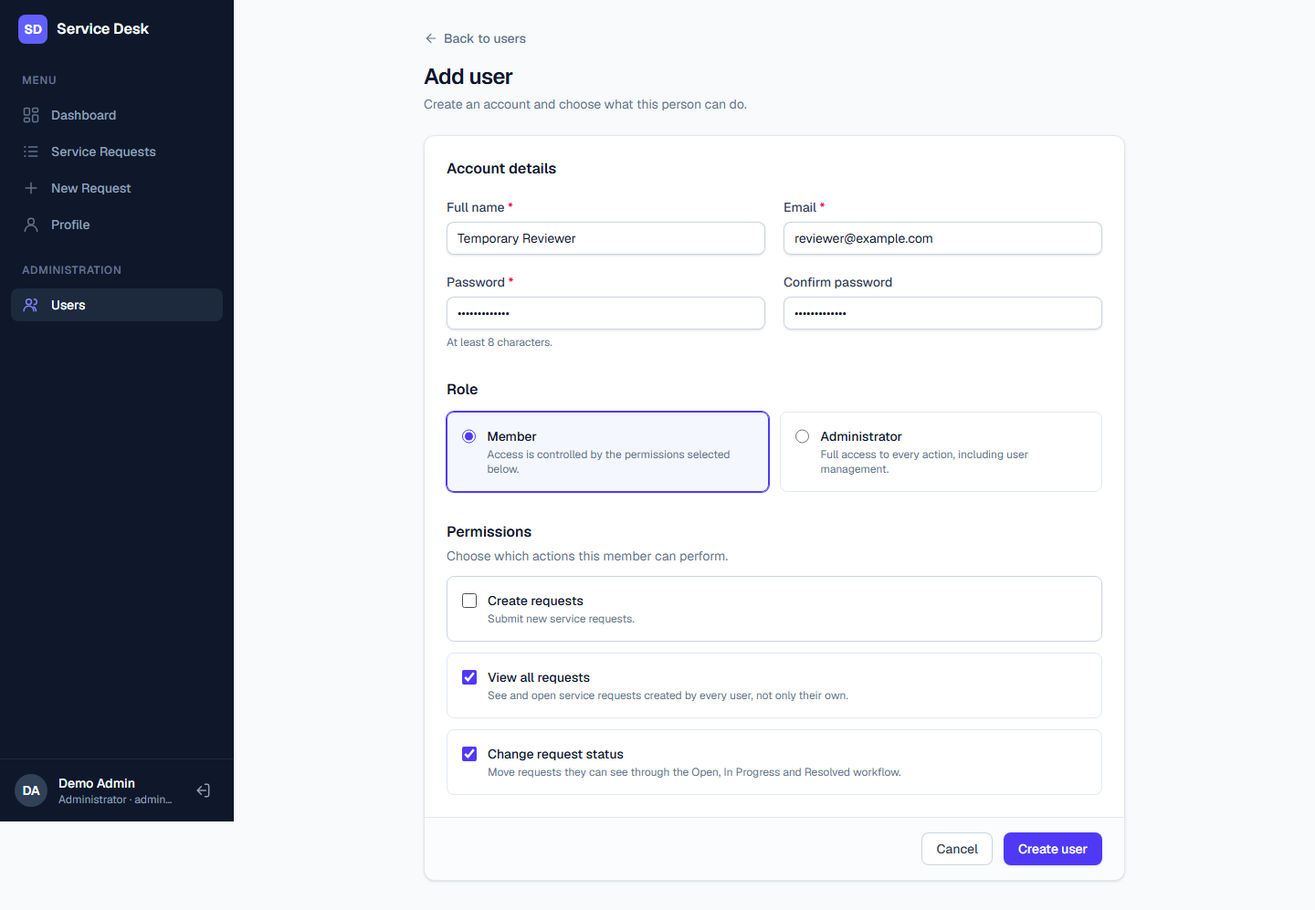
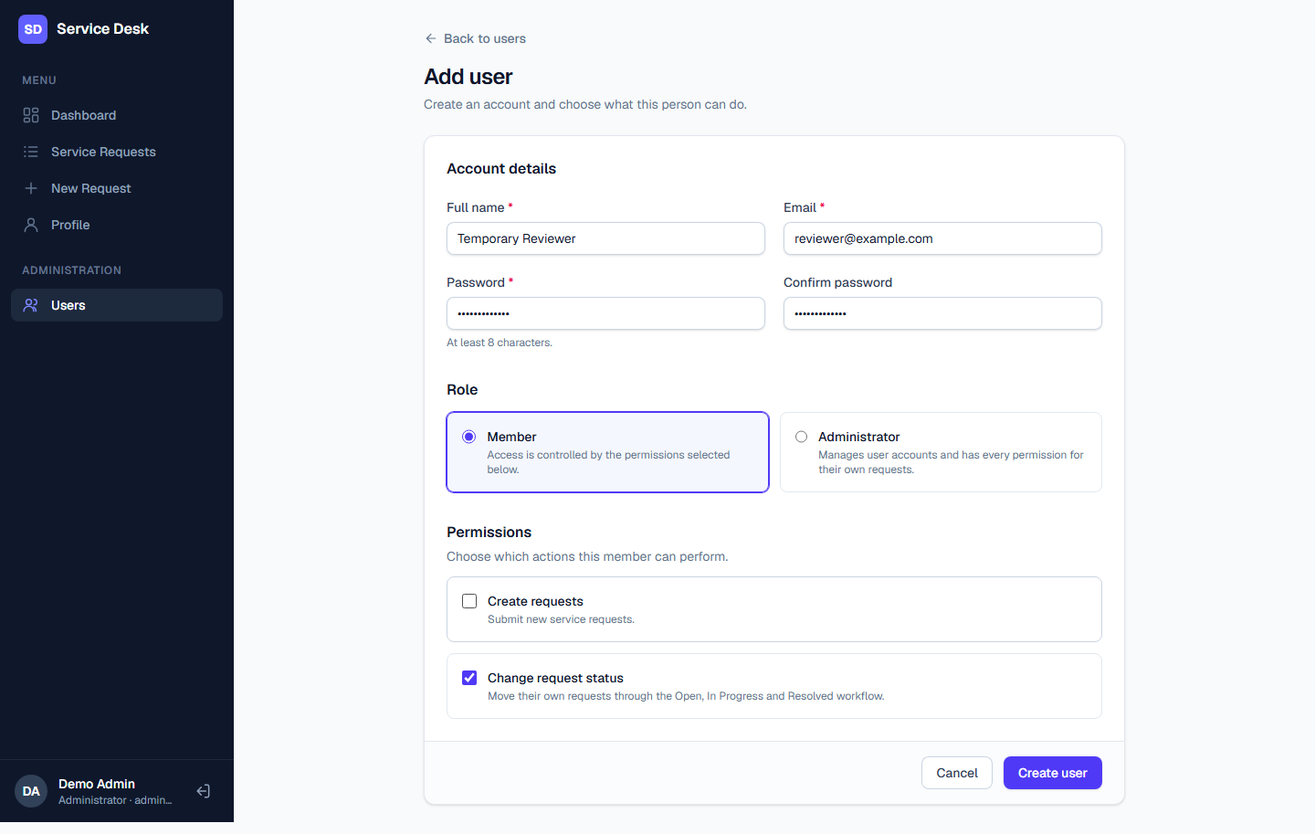
readme update

diff --git a/README.md b/README.md
@@ -1,35 +1,38 @@
 # Service Request Management
 
-A service desk application for logging, tracking and resolving service requests.
+A compact, secure service request tracker. Employees sign in, raise service requests, move them through a controlled workflow and see a full audit trail of every status change.
 
-- **Backend:** Laravel 13 REST API with Laravel Sanctum token authentication
+- **Backend:** Laravel 13 REST API with Laravel Sanctum API tokens
 - **Frontend:** Next.js 16 (App Router, React 19, TypeScript, Tailwind CSS 4) in [`frontend/`](frontend/)
 - **Database:** SQLite by default, MySQL or PostgreSQL also supported
 
 ## Features
 
-- Login, logout and current user profile with two seeded demo accounts
-- Create service requests, view details, search by title, filter by priority and status, server-side pagination
+- Login, logout and current user (`/me`) with two seeded demo accounts
+- Create service requests, view details, search by title, combined priority and status filters, server-side pagination
 - Status workflow `OPEN → IN_PROGRESS → RESOLVED` with an optional remark on each change
-- Audit history: every successful status change creates exactly one history record
-- Optimistic concurrency control: every request has a version, and an outdated version can never overwrite newer data
-- Access control with roles and permissions: administrators manage everything, members get individual permissions
+- Audit history: every successful status change creates exactly one history record, available through its own endpoint
+- Optimistic concurrency control: every request has a version, and a stale `expected_version` can never overwrite newer data
+- Strict ownership: every user, including administrators, can only read and change their own requests and status history
 - User management for administrators: create, edit and delete users and assign roles and permissions
 
 ## Project structure
+
+The repository root is the Laravel backend. The Next.js frontend is in `frontend/`.
 
 ```
 app/
   Actions/ChangeServiceRequestStatus.php   status change in a transaction with version check
   Enums/                                   priority, status and permission enums, workflow rules
-  Exceptions/                              invalid transition (422) and stale version (409)
-  Http/Controllers/Api/                    auth, service request and user endpoints
+  Exceptions/                              invalid transition and stale version (both 409)
+  Http/Controllers/Api/                    auth, request and user endpoints
   Http/Requests/                           validation
   Http/Resources/                          JSON responses
   Models/                                  User, ServiceRequest, ServiceRequestStatusHistory
-  Policies/                                service request and user authorization
+  Policies/                                request ownership and user management rules
 database/
   factories/  migrations/  seeders/
+routes/api.php                             API routes
 tests/Feature/                             automated Laravel tests
 frontend/                                  Next.js application
 docs/screenshots/                          screenshots used below
@@ -40,6 +43,8 @@ docs/screenshots/                          screenshots used below
 - PHP 8.3 or newer with the `pdo_sqlite` extension (or `pdo_mysql` / `pdo_pgsql`)
 - Composer 2
 - Node.js 20.9 or newer and npm
+
+No paid services are needed.
 
 ## Installation
 
@@ -106,15 +111,25 @@ Open `http://localhost:3000`.
 
 For a production build use `npm run build` followed by `npm run start`.
 
+### Environment variables
+
+Both `.env.example` files contain no real secrets. The values that matter for this project are:
+
+| Variable              | Where              | Purpose                                              |
+|-----------------------|--------------------|------------------------------------------------------|
+| `APP_KEY`             | `.env`             | Generated by `php artisan key:generate`              |
+| `DB_*`                | `.env`             | Database connection                                  |
+| `SANCTUM_EXPIRATION`  | `.env`             | API token lifetime in minutes, default `480` (8 hours) |
+| `NEXT_PUBLIC_API_URL` | `frontend/.env.local` | Base URL of the Laravel API                       |
+
 ### Demo accounts
 
-| Account       | Email               | Password   | Role          | Access                                           |
-|---------------|---------------------|------------|---------------|--------------------------------------------------|
-| Demo Admin    | `admin@example.com` | `password` | Administrator | Everything, including user management            |
-| Demo User     | `user@example.com`  | `password` | Member        | Create requests, change status of own requests   |
-| Support Agent | `agent@example.com` | `password` | Member        | View all requests and change status, no create   |
+| Account    | Email               | Password   | Role          | Access                                    |
+|------------|---------------------|------------|---------------|-------------------------------------------|
+| Demo Admin | `admin@example.com` | `password` | Administrator | Own requests, plus user management        |
+| Demo User  | `user@example.com`  | `password` | Member        | Own requests: create and change status    |
 
-The seeders create 20 requests each for Demo Admin and Demo User. Each request moves through the workflow with realistic status history, remarks and versions.
+The seeders create 20 requests for each account. Each request moves through the workflow with realistic status history, remarks and versions, and every status change is made by the request's owner. Signing in as one account never shows the other account's requests.
 
 To reset the demo data:
 
@@ -122,65 +137,151 @@ To reset the demo data:
 php artisan migrate:fresh --seed
 ```
 
+## Authentication
+
+**Choice: Laravel Sanctum API tokens.** The Next.js frontend runs on its own origin (`http://localhost:3000`) and the API runs on another (`http://localhost:8000` or a WAMP sub-folder). Bearer tokens work across these origins without cookie domain, same-site or CSRF configuration, and the same API can be used from tools such as Postman. Sanctum is first-party Laravel, so there is no third-party JWT library to configure.
+
+- `POST /api/auth/login` checks the credentials and returns a plain-text token. Only a SHA-256 hash of the token is stored in the database. Login is rate limited to 6 attempts per minute.
+- `GET /api/auth/me` returns the signed-in user, or `401` without a valid token.
+- `POST /api/auth/logout` deletes the current token on the server, so it stops working immediately.
+- Tokens expire after `SANCTUM_EXPIRATION` minutes (8 hours by default). Expired tokens are rejected with `401` and removed by a daily `sanctum:prune-expired` schedule.
+- Passwords are hashed with bcrypt through the `hashed` cast on the `User` model.
+
+**Token storage trade-off.** The frontend keeps the token in `localStorage` and sends it as an `Authorization: Bearer` header. This is simple and works across origins, but any script running on the page could read the token, so it depends on the app being free of XSS. The risk is reduced because React escapes all rendered output, no raw HTML is injected, tokens expire after 8 hours and logout revokes the token on the server. The alternative, Sanctum's cookie-based SPA mode with `HttpOnly` cookies, keeps the token out of JavaScript but needs both apps on the same top-level domain plus CSRF and same-site configuration. That trade-off was not worth it for a local two-origin setup.
+
+## Data model
+
+| Table                      | Columns                                                                                          |
+|----------------------------|--------------------------------------------------------------------------------------------------|
+| `users`                    | Laravel users, plus `is_admin`, `permissions` (JSON) and `deleted_at` for soft deletes           |
+| `service_requests`         | `id`, `created_by` (FK users), `title` (3–100), `description` (10–500), `priority` (`LOW`/`MEDIUM`/`HIGH`), `status` (`OPEN`/`IN_PROGRESS`/`RESOLVED`, default `OPEN`), `version` (default 1), timestamps |
+| `request_status_histories` | `id`, `service_request_id` (FK), `actor_user_id` (FK users), `from_status` (null for the initial record), `to_status`, `version`, `remark` (nullable), `created_at` |
+
+Foreign keys enforce the relationships. Indexes cover `(created_by, created_at)` for "my requests, newest first", `status`, `priority`, `title` for search, and `(service_request_id, created_at)` for the history.
+
+Two additions to the minimum schema:
+
+- `request_status_histories.version` records which version each change produced, which makes the audit trail easy to check against the request.
+- An initial history record (`from_status` is `null`) is written when a request is created, so the trail always starts at `OPEN`.
+
 ## API
 
 All endpoints return JSON. Send `Accept: application/json`, and `Authorization: Bearer <token>` for protected endpoints.
 
-| Method  | Endpoint                              | Description                                                         |
-|---------|---------------------------------------|---------------------------------------------------------------------|
-| `POST`  | `/api/login`                          | Returns a token and the user. Rate limited to 6 attempts per minute |
-| `POST`  | `/api/logout`                         | Revokes the current token                                           |
-| `GET`   | `/api/me`                             | Current user profile                                                |
-| `GET`   | `/api/service-requests`               | List with `search`, `priority`, `status`, `per_page`, `page`        |
-| `POST`  | `/api/service-requests`               | Create a request (`title`, `description`, `priority`)               |
-| `GET`   | `/api/service-requests/{id}`          | Request details with version and status history                     |
-| `PATCH` | `/api/service-requests/{id}/status`   | Change status (`status`, `version`, optional `remark`)              |
-| `GET`   | `/api/permissions`                    | Available permissions with labels and defaults                      |
-| `GET`   | `/api/users`                          | List users with `search`, `role`, `per_page`, `page` (admin only)   |
-| `POST`  | `/api/users`                          | Create a user (`name`, `email`, `password`, `password_confirmation`, `role`, `permissions`) |
-| `GET`   | `/api/users/{id}`                     | User details (admin only)                                           |
-| `PUT`   | `/api/users/{id}`                     | Update a user. `password` is optional (admin only)                  |
-| `DELETE`| `/api/users/{id}`                     | Delete a user (admin only)                                          |
+| Method   | Endpoint                         | Description                                                                 |
+|----------|----------------------------------|-----------------------------------------------------------------------------|
+| `POST`   | `/api/auth/login`                | `email`, `password`. Returns `token`, `token_type` and `user`               |
+| `GET`    | `/api/auth/me`                   | Current user                                                                |
+| `POST`   | `/api/auth/logout`               | Revokes the current token                                                   |
+| `GET`    | `/api/requests`                  | Own requests, newest first. `search`, `status`, `priority`, `per_page` (default 10, max 25), `page` |
+| `POST`   | `/api/requests`                  | Create a request: `title`, `description`, `priority`                        |
+| `GET`    | `/api/requests/{id}`             | Request detail with current `version`                                       |
+| `PATCH`  | `/api/requests/{id}/status`      | `status`, `expected_version`, optional `remark`                             |
+| `GET`    | `/api/requests/{id}/history`     | Status audit trail, oldest first                                            |
+| `GET`    | `/api/permissions`               | Available member permissions                                                |
+| `GET`    | `/api/users`                     | Admin only. `search`, `role`, `per_page`, `page`                            |
+| `POST`   | `/api/users`                     | Admin only. `name`, `email`, `password`, `password_confirmation`, `role`, `permissions` |
+| `GET`    | `/api/users/{id}`                | Admin only                                                                  |
+| `PUT`    | `/api/users/{id}`                | Admin only. `password` is optional                                          |
+| `DELETE` | `/api/users/{id}`                | Admin only. Soft delete                                                     |
 
-Responses for errors:
+`created_by`, `status` and `version` are never taken from the client when creating a request. New requests always start as `OPEN` at version 1.
 
-| Status | Meaning                                                                 |
-|--------|-------------------------------------------------------------------------|
-| `401`  | Missing or invalid token                                                |
-| `403`  | Missing permission, another user's request, or a non-admin managing users |
-| `404`  | The request does not exist                                              |
-| `409`  | Stale version. The response includes `current_version` and the latest `data` |
-| `422`  | Validation error or invalid status transition                           |
+### Example requests
+
+```http
+POST /api/requests
+{"title":"Printer not working","description":"Office printer stopped responding.","priority":"HIGH"}
+
+PATCH /api/requests/12/status
+{"status":"IN_PROGRESS","expected_version":1,"remark":"Technician assigned"}
+```
+
+### Response shape
+
+Single records use Laravel's resource envelope:
+
+```json
+{
+  "data": {
+    "id": 12,
+    "title": "Printer not working",
+    "description": "Office printer stopped responding.",
+    "priority": { "value": "HIGH", "label": "High" },
+    "status": { "value": "IN_PROGRESS", "label": "In Progress" },
+    "next_status": { "value": "RESOLVED", "label": "Resolved" },
+    "version": 2,
+    "requested_by": { "id": 2, "name": "Demo User" },
+    "status_history": [
+      {
+        "id": 31,
+        "from_status": { "value": "OPEN", "label": "Open" },
+        "to_status": { "value": "IN_PROGRESS", "label": "In Progress" },
+        "version": 2,
+        "remark": "Technician assigned",
+        "actor": { "id": 2, "name": "Demo User" },
+        "created_at": "2026-11-20T09:15:00.000000Z"
+      }
+    ],
+    "created_at": "2026-11-20T09:00:00.000000Z",
+    "updated_at": "2026-11-20T09:15:00.000000Z"
+  }
+}
+```
+
+The list endpoint returns `data`, `links` and `meta` (`current_page`, `per_page`, `total`, `last_page`, `from`, `to`). The history endpoint returns `data` as an array of history entries in chronological order. `status_history` is included in the detail and status change responses only.
+
+### Errors
+
+Errors always contain a readable `message`. Validation and transition errors also contain an `errors` object keyed by field.
+
+```json
+{
+  "message": "Cannot change status from Open to Resolved. The next allowed status is In Progress.",
+  "errors": { "status": ["Cannot change status from Open to Resolved. The next allowed status is In Progress."] }
+}
+```
+
+| Status | Meaning                                                                                       |
+|--------|-----------------------------------------------------------------------------------------------|
+| `401`  | Missing, invalid, revoked or expired token                                                    |
+| `403`  | Another user's request or history, a missing permission, or a non-admin managing users        |
+| `404`  | Unknown request or user                                                                       |
+| `409`  | Invalid status transition, or stale `expected_version`. Stale responses also include `current_version` and the latest `data` |
+| `422`  | Malformed or invalid fields                                                                   |
+
+**Non-owned records return `403`.** This is applied consistently to the detail, status change and history endpoints. Other users' requests never appear in the list.
 
 ## Business rules
 
-**Workflow.** Status can only move one step forward: `open → in_progress → resolved`. Skipping a step, moving backwards, setting the same status again, or changing a resolved request returns `422` with a clear message.
+**Workflow.** Status can only move one step forward: `OPEN → IN_PROGRESS → RESOLVED`. Skipping a step, moving backwards, repeating the current status, or changing a resolved request returns `409` with a clear message and changes nothing.
 
-**Audit history.** Creating a request records the initial status. Each successful status change records the previous status, new status, new version, remark, user and time. Failed changes record nothing.
+**Audit history.** Each successful status change writes exactly one history record with the previous status, new status, new version, remark, actor and time. Failed changes write nothing.
 
-**Concurrency control.** The client sends the `version` it last saw. `ChangeServiceRequestStatus` runs inside a database transaction:
+**Concurrency control.** The client sends the `expected_version` it last saw. `ChangeServiceRequestStatus` runs inside a single database transaction:
 
-1. Lock the row with `lockForUpdate()` and compare versions. A mismatch returns `409`.
-2. Validate the transition. An invalid transition returns `422`.
-3. Update with `WHERE id = ? AND version = ?` and increment the version. If no row is updated, another change won the race and `409` is returned.
-4. Insert the history record. If this fails, the whole transaction is rolled back.
+1. Lock the row with `lockForUpdate()` and compare `expected_version` with the current version. A mismatch returns `409`.
+2. Validate the transition. An invalid transition returns `409`.
+3. Update with `WHERE id = ? AND version = ?` and increment the version by 1. If no row is updated, another change won the race and `409` is returned.
+4. Insert the history record. If this fails, the whole transaction is rolled back, so the status and version are not changed either.
 
-Direct changes to `status` on the model are blocked, so all status changes go through these rules.
+Direct changes to `status` on the model are blocked, so every status change goes through these rules.
 
-## Roles and permissions
+## Ownership, roles and permissions
+
+**Ownership comes first.** A service request can only be listed, read or changed by the user who created it. This applies to every role, including administrators. Requests from other users never appear in lists or searches, and opening, changing or reading the history of one returns `403` with `You do not have access to this service request.`
 
 There are two roles:
 
-- **Administrator:** has every permission and is the only role that can manage users.
-- **Member:** can only perform the actions an administrator has granted.
+- **Administrator:** manages user accounts and has every permission for their own requests.
+- **Member:** can only perform the actions an administrator has granted, and only on their own requests.
 
-| Permission               | Allows                                                                 |
-|--------------------------|------------------------------------------------------------------------|
-| `requests.create`        | Creating service requests                                              |
-| `requests.view_all`      | Seeing and opening every user's requests. Without it, only their own   |
-| `requests.change_status` | Changing the status of requests the member can see                     |
+| Permission               | Allows                                         |
+|--------------------------|------------------------------------------------|
+| `requests.create`        | Creating service requests                      |
+| `requests.change_status` | Changing the status of their own requests      |
 
-New members get `requests.create` and `requests.change_status` by default. Permissions are checked on every API call, so changes take effect immediately. The frontend hides actions the signed-in user is not allowed to perform, and the API enforces the same rules with `403` responses.
+New members get both permissions by default. Permissions are checked on every API call, so changes take effect immediately. Permissions only restrict what users can do with their own requests; they never grant access to someone else's. The frontend hides actions the signed-in user is not allowed to perform, and the API enforces the same rules with `403` responses.
 
 User management rules:
 
@@ -212,18 +313,18 @@ npm run build
 
 ### Required test cases
 
-The suite contains 86 tests. The required scenarios are covered by:
+The suite contains 84 tests. The required scenarios are covered by:
 
 | Requirement | Tests |
 |-------------|-------|
-| 1. Successful login and unauthenticated access rejection | `AuthTest::test_user_can_login_with_valid_credentials`, `AuthTest::test_guest_cannot_view_profile`, `ServiceRequestTest::test_guest_cannot_access_service_requests` |
-| 2. Preventing users from accessing other users' requests | `ServiceRequestAuthorizationTest::test_user_cannot_view_another_users_request`, `test_user_cannot_change_status_of_another_users_request`, `test_user_only_sees_own_requests_in_the_list` |
-| 3. Successful request creation and invalid input validation | `ServiceRequestTest::test_user_can_create_service_request`, `ServiceRequestTest::test_create_validates_input` |
-| 4. Successful status transition, version increment and history creation | `ServiceRequestStatusTest::test_status_moves_from_open_to_in_progress`, `test_each_successful_change_creates_exactly_one_history_record` |
-| 5. Invalid status transition rejection | `ServiceRequestStatusTest::test_invalid_status_changes_are_rejected` (7 cases: skipping, reversing, repeating and changing after resolved) |
-| 6. Stale version update rejection without overwriting newer data | `ServiceRequestStatusTest::test_outdated_version_is_rejected_with_conflict`, `test_two_users_with_the_same_version_only_first_wins`, `test_conditional_update_detects_a_change_made_after_the_version_check` |
+| 1. Successful sign-in and unauthenticated rejection (401) | `AuthTest::test_user_can_login_with_valid_credentials`, `AuthTest::test_guest_cannot_view_profile`, `ServiceRequestTest::test_guest_cannot_access_service_requests`, `AuthTest::test_tokens_expire_after_the_configured_lifetime` |
+| 2. Cross-user request, detail and history access is blocked | `ServiceRequestAuthorizationTest::test_user_cannot_view_another_users_request`, `test_user_cannot_read_another_users_status_history`, `test_user_cannot_change_status_of_another_users_request`, `test_user_only_sees_own_requests_in_the_list`, `test_admin_cannot_read_or_change_other_users_requests` |
+| 3. Request creation success and invalid input (422) | `ServiceRequestTest::test_user_can_create_service_request`, `test_create_validates_input`, `test_create_enforces_title_and_description_lengths`, `test_priority_values_follow_the_contract` |
+| 4. A valid transition persists, increments the version and creates one history record | `ServiceRequestStatusTest::test_status_moves_from_open_to_in_progress`, `test_each_successful_change_creates_exactly_one_history_record` |
+| 5. An invalid transition returns 409 and does not modify the request or history | `ServiceRequestStatusTest::test_invalid_status_changes_are_rejected` (7 cases: skipping, reversing, repeating and changing after resolved) |
+| 6. A stale `expected_version` returns 409 without overwriting the latest state | `ServiceRequestStatusTest::test_outdated_version_is_rejected_with_conflict`, `test_two_sessions_with_the_same_version_only_first_wins`, `test_conditional_update_detects_a_change_made_after_the_version_check` |
 
-User management and permissions are covered by `UserManagementTest` (admin-only access, create, update, validation, self-protection and soft delete) and `PermissionTest` (each permission, immediate permission changes and demo account permissions).
+Other coverage includes the history endpoint (`ServiceRequestHistoryTest`), the transaction rollback when the history cannot be saved, user management (`UserManagementTest`) and permissions (`PermissionTest`).
 
 ## Screenshots
 
@@ -255,7 +356,7 @@ User management and permissions are covered by `UserManagementTest` (admin-only 
 |-----------|------------------|-------------|
 | ![Not found](docs/screenshots/11-request-not-found.png) | ![Mobile dashboard](docs/screenshots/12-mobile-dashboard.png) | ![Mobile menu](docs/screenshots/13-mobile-menu.png) |
 
-### User management and permissions
+### User management and access control
 
 | Users | Add user |
 |-------|----------|
@@ -265,9 +366,9 @@ User management and permissions are covered by `UserManagementTest` (admin-only 
 |---------------------|-------------|
 | ![Add user validation](docs/screenshots/16-add-user-validation.png) | ![Delete user](docs/screenshots/17-delete-user.png) |
 
-| Permission denied for Support Agent |
-|-------------------------------------|
-| ![Permission denied](docs/screenshots/18-permission-denied.png) |
+| Administrator opening another user's request |
+|----------------------------------------------|
+| ![Cross-user access denied](docs/screenshots/18-cross-user-access-denied.png) |
 
 ## AI Use & Verification
 
@@ -278,7 +379,7 @@ User management and permissions are covered by `UserManagementTest` (admin-only 
 ### Parts of the project AI helped with
 
 - **Next.js frontend development:** the screens in `frontend/` (login, dashboard, service request list, create request, request details, status management, history, profile and user management), the sidebar layout, permission-based hiding of actions, the API client, the authentication context, data loading hooks, and handling of loading, empty, validation, authorization, API failure and stale update states.
-- **Test data:** the model factories and seeders that create the three demo accounts with their roles and permissions, and 40 demo requests with realistic titles, status histories, remarks and versions.
+- **Test data:** the model factories and seeders that create the two demo accounts with their roles and permissions, and 40 demo requests with realistic titles, status histories, remarks and versions.
 - **Documentation:** generating this README.
 
 ### Example prompt
@@ -300,9 +401,9 @@ This was followed by "note need a dashboard view when loading", which led to the
 
 ### One technical decision made independently
 
-The brief only asked that users cannot access each other's requests, which a simple owner check would satisfy. I decided that was not enough for a real service desk, because the people who handle requests are usually not the people who create them. A support agent needs to see everyone's requests and move them through the workflow, but should not be able to manage accounts, and a normal staff member should only see their own requests.
+I added user management with roles and permissions, but I decided that the administrator role must not be an exception to request ownership. It is tempting to let an admin see everything, but the brief is clear that a signed-in user must never read or change another user's requests or status history, and an admin is still a signed-in user. So I kept two separate concerns: ownership decides which requests a user can touch, and is checked first for everyone, while the administrator role only controls account management. Member permissions (create requests, change request status) can only narrow what someone does with their own requests, never widen it to other people's.
 
-So instead of a fixed admin and user split, I chose role and permission based access: administrators have full access and are the only ones who can manage users, while members are given individual permissions (create requests, view all requests, change request status). I also decided that deleting a user should be a soft delete, so their requests and the status history stay intact for auditing, and that an administrator cannot delete or demote their own account, so the system can never be left without an administrator.
+I also decided that deleting a user should be a soft delete, so their requests and status history stay intact for auditing, and that an administrator cannot delete or demote their own account, so the system can never be left without an administrator.
 
-The permissions are enforced on the API through Laravel policies, and the frontend only hides actions the user cannot perform, so the backend stays the single source of truth.
+These rules are enforced on the API through Laravel policies, and the frontend only hides actions the user cannot perform, so the backend stays the single source of truth.
 

diff --git a/frontend/README.md b/frontend/README.md
@@ -12,7 +12,7 @@ Next.js frontend for the Laravel service request API in the parent folder.
 | Create Request    | `/service-requests/new`            | Submit a new request                                           |
 | Request Details   | `/service-requests/{id}`           | Request information, current status and version                |
 | Status Management | `/service-requests/{id}/status`    | Move to the next status with an optional remark                |
-| History           | `/service-requests/{id}/history`   | Chronological status changes                                   |
+| History           | `/service-requests/{id}/history`   | Chronological status changes from `GET /api/requests/{id}/history` |
 | Profile           | `/profile`                         | Signed-in user details, role and permissions                   |
 | Users             | `/users`                           | Administrators: search users, edit and delete                  |
 | Add User          | `/users/new`                       | Administrators: create a user with a role and permissions      |
@@ -45,7 +45,6 @@ Open http://localhost:3000.
 |------------|-------------------|----------|
 | Demo Admin | admin@example.com | password |
 | Demo User  | user@example.com  | password |
-| Support Agent | agent@example.com | password |
 
 ## Scripts
 
